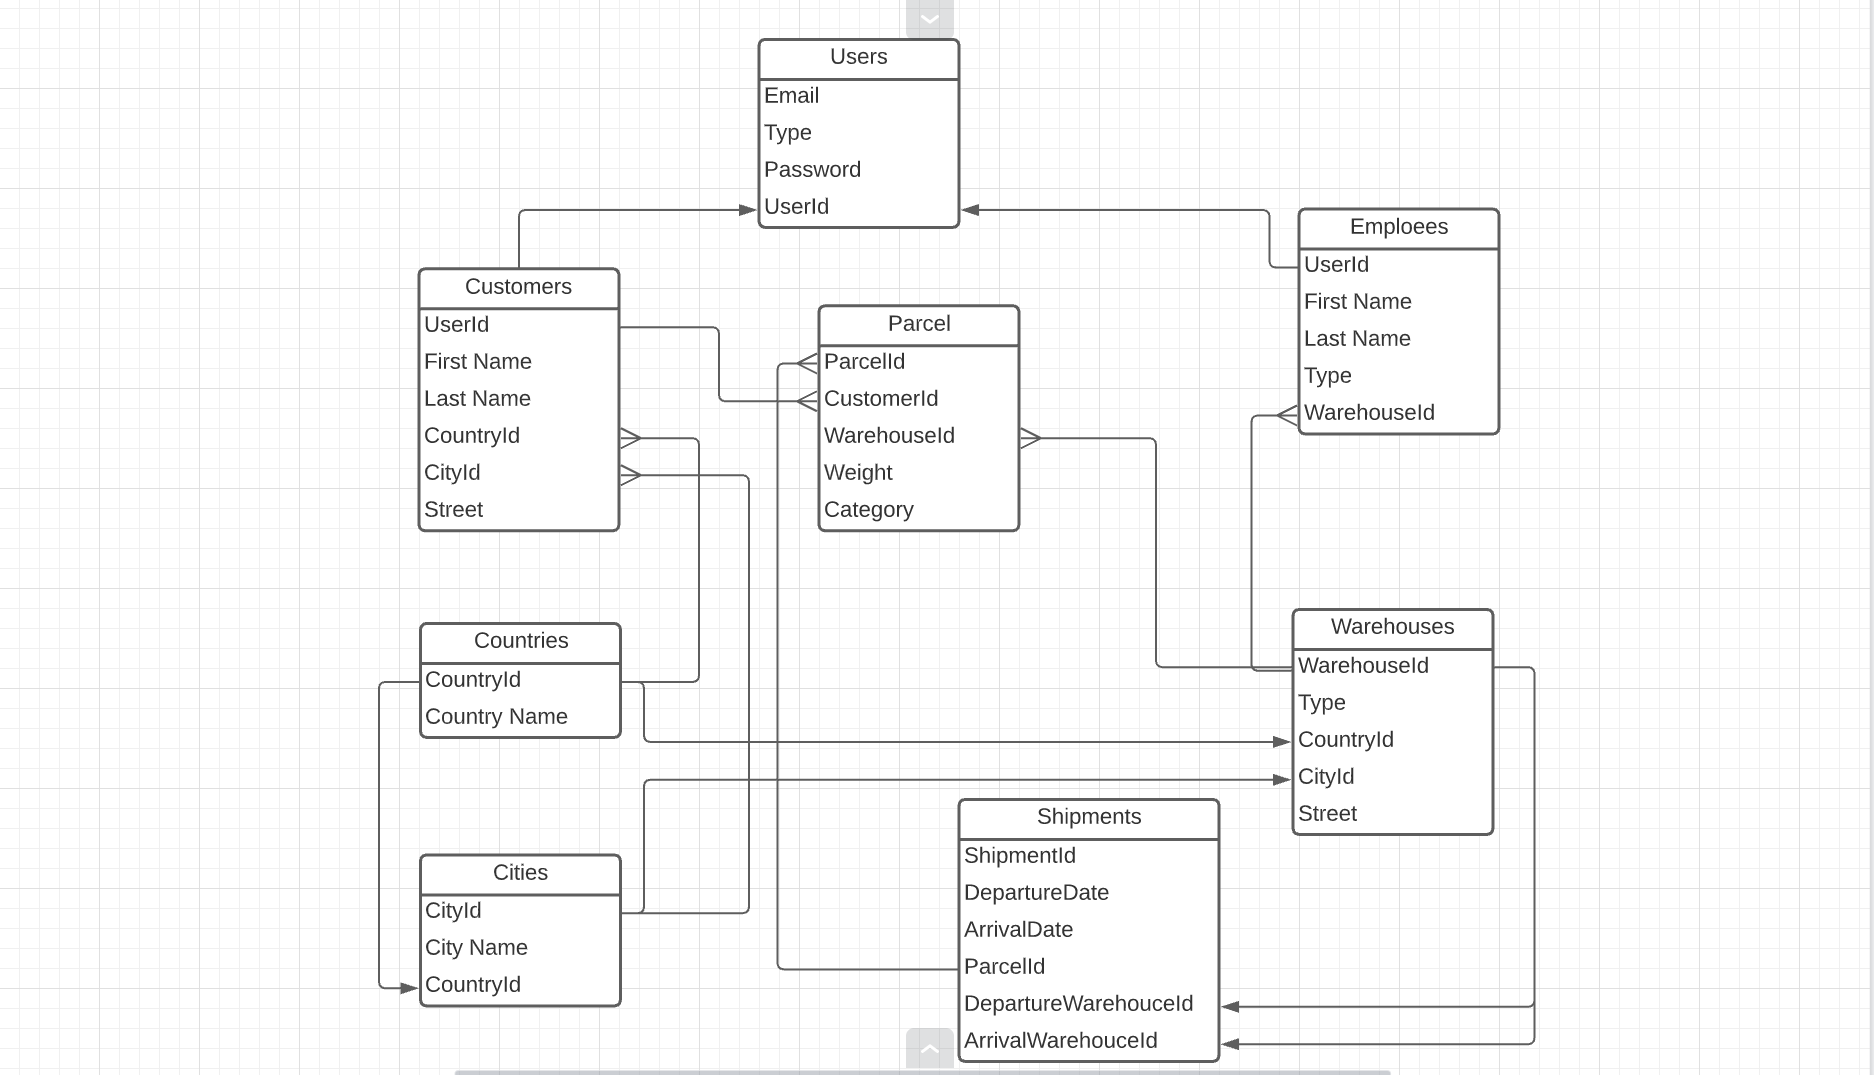
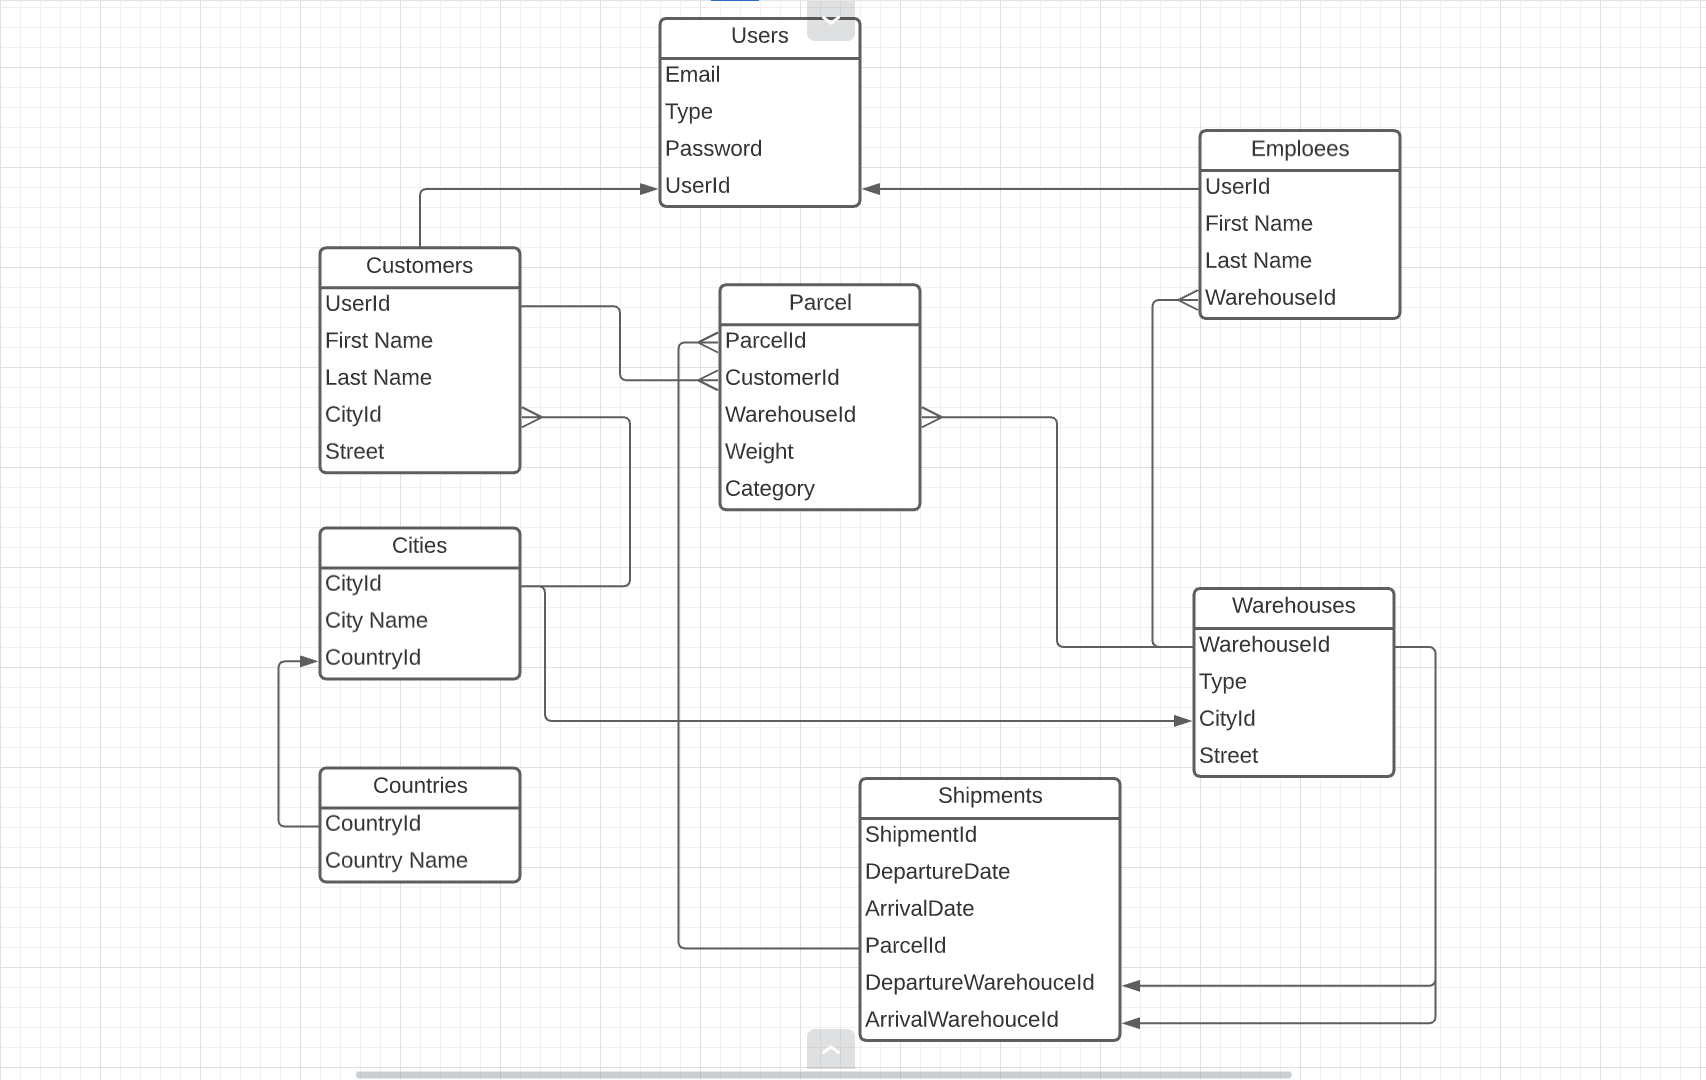
1.Change relation of Conutries and Cities 2.Fix class diagram 3.Create db diagram

diff --git a/DeliverIt13/DeliverIt13.Data/Migrations/20210411173956_Initial.cs b/DeliverIt13/DeliverIt13.Data/Migrations/20210411173956_Initial.cs
@@ -59,7 +59,6 @@ namespace DeliverIt13.Data.Migrations
                     UserId = table.Column<Guid>(type: "uniqueidentifier", nullable: false),
                     FirstName = table.Column<string>(type: "nvarchar(50)", maxLength: 50, nullable: false),
                     LastName = table.Column<string>(type: "nvarchar(50)", maxLength: 50, nullable: false),
-                    CountryId = table.Column<Guid>(type: "uniqueidentifier", nullable: false),
                     CityId = table.Column<Guid>(type: "uniqueidentifier", nullable: false),
                     Street = table.Column<string>(type: "nvarchar(100)", maxLength: 100, nullable: true)
                 },
@@ -71,12 +70,6 @@ namespace DeliverIt13.Data.Migrations
                         column: x => x.CityId,
                         principalTable: "Cities",
                         principalColumn: "CityId",
-                        onDelete: ReferentialAction.Restrict);
-                    table.ForeignKey(
-                        name: "FK_Customers_Countries_CountryId",
-                        column: x => x.CountryId,
-                        principalTable: "Countries",
-                        principalColumn: "CountryId",
                         onDelete: ReferentialAction.Restrict);
                     table.ForeignKey(
                         name: "FK_Customers_Users_UserId",
@@ -92,7 +85,6 @@ namespace DeliverIt13.Data.Migrations
                 {
                     WarehouseId = table.Column<Guid>(type: "uniqueidentifier", nullable: false),
                     Type = table.Column<int>(type: "int", nullable: false),
-                    CountryId = table.Column<Guid>(type: "uniqueidentifier", nullable: false),
                     CityId = table.Column<Guid>(type: "uniqueidentifier", nullable: false),
                     Street = table.Column<string>(type: "nvarchar(100)", maxLength: 100, nullable: true)
                 },
@@ -104,12 +96,6 @@ namespace DeliverIt13.Data.Migrations
                         column: x => x.CityId,
                         principalTable: "Cities",
                         principalColumn: "CityId",
-                        onDelete: ReferentialAction.Restrict);
-                    table.ForeignKey(
-                        name: "FK_Warehouses_Countries_CountryId",
-                        column: x => x.CountryId,
-                        principalTable: "Countries",
-                        principalColumn: "CountryId",
                         onDelete: ReferentialAction.Restrict);
                 });
 
@@ -212,11 +198,6 @@ namespace DeliverIt13.Data.Migrations
                 column: "CityId");
 
             migrationBuilder.CreateIndex(
-                name: "IX_Customers_CountryId",
-                table: "Customers",
-                column: "CountryId");
-
-            migrationBuilder.CreateIndex(
                 name: "IX_Employees_WarehouseId",
                 table: "Employees",
                 column: "WarehouseId");
@@ -250,11 +231,6 @@ namespace DeliverIt13.Data.Migrations
                 name: "IX_Warehouses_CityId",
                 table: "Warehouses",
                 column: "CityId");
-
-            migrationBuilder.CreateIndex(
-                name: "IX_Warehouses_CountryId",
-                table: "Warehouses",
-                column: "CountryId");
         }
 
         protected override void Down(MigrationBuilder migrationBuilder)

diff --git a/DeliverIt13/DeliverIt13.Data/Migrations/20210411173956_Initial.Designer.cs b/DeliverIt13/DeliverIt13.Data/Migrations/20210411173956_Initial.Designer.cs
@@ -10,7 +10,7 @@ using Microsoft.EntityFrameworkCore.Storage.ValueConversion;
 namespace DeliverIt13.Data.Migrations
 {
     [DbContext(typeof(DeliverItContext))]
-    [Migration("20210411145237_Initial")]
+    [Migration("20210411173956_Initial")]
     partial class Initial
     {
         protected override void BuildTargetModel(ModelBuilder modelBuilder)
@@ -66,9 +66,6 @@ namespace DeliverIt13.Data.Migrations
                     b.Property<Guid>("CityId")
                         .HasColumnType("uniqueidentifier");
 
-                    b.Property<Guid>("CountryId")
-                        .HasColumnType("uniqueidentifier");
-
                     b.Property<string>("FirstName")
                         .IsRequired()
                         .HasMaxLength(50)
@@ -86,8 +83,6 @@ namespace DeliverIt13.Data.Migrations
                     b.HasKey("UserId");
 
                     b.HasIndex("CityId");
-
-                    b.HasIndex("CountryId");
 
                     b.ToTable("Customers");
                 });
@@ -210,9 +205,6 @@ namespace DeliverIt13.Data.Migrations
                     b.Property<Guid>("CityId")
                         .HasColumnType("uniqueidentifier");
 
-                    b.Property<Guid>("CountryId")
-                        .HasColumnType("uniqueidentifier");
-
                     b.Property<string>("Street")
                         .HasMaxLength(100)
                         .HasColumnType("nvarchar(100)");
@@ -223,8 +215,6 @@ namespace DeliverIt13.Data.Migrations
                     b.HasKey("WarehouseId");
 
                     b.HasIndex("CityId");
-
-                    b.HasIndex("CountryId");
 
                     b.ToTable("Warehouses");
                 });
@@ -248,12 +238,6 @@ namespace DeliverIt13.Data.Migrations
                         .OnDelete(DeleteBehavior.Restrict)
                         .IsRequired();
 
-                    b.HasOne("DeliverIt13.Data.Models.Country", "Country")
-                        .WithMany()
-                        .HasForeignKey("CountryId")
-                        .OnDelete(DeleteBehavior.Restrict)
-                        .IsRequired();
-
                     b.HasOne("DeliverIt13.Data.Models.User", "User")
                         .WithMany()
                         .HasForeignKey("UserId")
@@ -261,8 +245,6 @@ namespace DeliverIt13.Data.Migrations
                         .IsRequired();
 
                     b.Navigation("City");
-
-                    b.Navigation("Country");
 
                     b.Navigation("User");
                 });
@@ -340,15 +322,7 @@ namespace DeliverIt13.Data.Migrations
                         .OnDelete(DeleteBehavior.Restrict)
                         .IsRequired();
 
-                    b.HasOne("DeliverIt13.Data.Models.Country", "Country")
-                        .WithMany()
-                        .HasForeignKey("CountryId")
-                        .OnDelete(DeleteBehavior.Restrict)
-                        .IsRequired();
-
                     b.Navigation("City");
-
-                    b.Navigation("Country");
                 });
 
             modelBuilder.Entity("DeliverIt13.Data.Models.Shipment", b =>

diff --git a/DeliverIt13/DeliverIt13.Data/Migrations/DeliverItContextModelSnapshot.cs b/DeliverIt13/DeliverIt13.Data/Migrations/DeliverItContextModelSnapshot.cs
@@ -64,9 +64,6 @@ namespace DeliverIt13.Data.Migrations
                     b.Property<Guid>("CityId")
                         .HasColumnType("uniqueidentifier");
 
-                    b.Property<Guid>("CountryId")
-                        .HasColumnType("uniqueidentifier");
-
                     b.Property<string>("FirstName")
                         .IsRequired()
                         .HasMaxLength(50)
@@ -84,8 +81,6 @@ namespace DeliverIt13.Data.Migrations
                     b.HasKey("UserId");
 
                     b.HasIndex("CityId");
-
-                    b.HasIndex("CountryId");
 
                     b.ToTable("Customers");
                 });
@@ -208,9 +203,6 @@ namespace DeliverIt13.Data.Migrations
                     b.Property<Guid>("CityId")
                         .HasColumnType("uniqueidentifier");
 
-                    b.Property<Guid>("CountryId")
-                        .HasColumnType("uniqueidentifier");
-
                     b.Property<string>("Street")
                         .HasMaxLength(100)
                         .HasColumnType("nvarchar(100)");
@@ -221,8 +213,6 @@ namespace DeliverIt13.Data.Migrations
                     b.HasKey("WarehouseId");
 
                     b.HasIndex("CityId");
-
-                    b.HasIndex("CountryId");
 
                     b.ToTable("Warehouses");
                 });
@@ -246,12 +236,6 @@ namespace DeliverIt13.Data.Migrations
                         .OnDelete(DeleteBehavior.Restrict)
                         .IsRequired();
 
-                    b.HasOne("DeliverIt13.Data.Models.Country", "Country")
-                        .WithMany()
-                        .HasForeignKey("CountryId")
-                        .OnDelete(DeleteBehavior.Restrict)
-                        .IsRequired();
-
                     b.HasOne("DeliverIt13.Data.Models.User", "User")
                         .WithMany()
                         .HasForeignKey("UserId")
@@ -259,8 +243,6 @@ namespace DeliverIt13.Data.Migrations
                         .IsRequired();
 
                     b.Navigation("City");
-
-                    b.Navigation("Country");
 
                     b.Navigation("User");
                 });
@@ -338,15 +320,7 @@ namespace DeliverIt13.Data.Migrations
                         .OnDelete(DeleteBehavior.Restrict)
                         .IsRequired();
 
-                    b.HasOne("DeliverIt13.Data.Models.Country", "Country")
-                        .WithMany()
-                        .HasForeignKey("CountryId")
-                        .OnDelete(DeleteBehavior.Restrict)
-                        .IsRequired();
-
                     b.Navigation("City");
-
-                    b.Navigation("Country");
                 });
 
             modelBuilder.Entity("DeliverIt13.Data.Models.Shipment", b =>

diff --git a/DeliverIt13/DeliverIt13.Data/DeliverItContext.cs b/DeliverIt13/DeliverIt13.Data/DeliverItContext.cs
@@ -15,36 +15,31 @@ namespace DeliverIt13.Data
 
         protected override void OnModelCreating(ModelBuilder modelBuilder)
         {
+            //City Cascade Fix
             modelBuilder.Entity<City>()
                 .HasOne<Country>(s => s.Country)
                 .WithMany()
                 .Metadata.DeleteBehavior = DeleteBehavior.Restrict;
-
+            
+            //Customer Cascade Fix
             modelBuilder.Entity<Customer>()
                 .HasOne<City>(s => s.City)
                 .WithMany()
                 .Metadata.DeleteBehavior = DeleteBehavior.Restrict;
 
-            modelBuilder.Entity<Customer>()
-                .HasOne(s => s.Country)
-                .WithMany()
-                .Metadata.DeleteBehavior = DeleteBehavior.Restrict;
-
+            //Warehouse Cascade Fix
             modelBuilder.Entity<Warehouse>()
                 .HasOne(s => s.City)
                 .WithMany()
                 .Metadata.DeleteBehavior = DeleteBehavior.Restrict;
 
-            modelBuilder.Entity<Warehouse>()
-                .HasOne(s => s.Country)
-                .WithMany()
-                .Metadata.DeleteBehavior = DeleteBehavior.Restrict;
-
+            //Employee Cascade Fix
             modelBuilder.Entity<Employee>()
                 .HasOne(s => s.Warehouse)
                 .WithMany()
                 .Metadata.DeleteBehavior = DeleteBehavior.Restrict;
 
+            //Shipment Cascade Fix
             modelBuilder.Entity<Shipment>()
                 .HasOne(s => s.ArrivalWarehouse)
                 .WithMany()
@@ -58,6 +53,7 @@ namespace DeliverIt13.Data
                 .WithOne(p => p.Shipment)
                 .Metadata.DeleteBehavior = DeleteBehavior.Cascade;
 
+            //Parcel Cascade Fix
             modelBuilder.Entity<Parcel>()
                 .HasOne(s => s.Warehouse)
                 .WithMany()

diff --git a/DeliverIt13/DeliverIt13.Data/Models/Customer.cs b/DeliverIt13/DeliverIt13.Data/Models/Customer.cs
@@ -19,10 +19,6 @@ namespace DeliverIt13.Data.Models
 
         [Required, StringLength(50, MinimumLength = 3, ErrorMessage = "Last name must be between 3 and 50 characters long!")]
         public string LastName { get; set; }
-
-        public Guid CountryId { get; set; }
-        [ForeignKey(nameof(CountryId))]
-        public Country Country { get; set; }
         public Guid CityId { get; set; }
         [ForeignKey(nameof(CityId))]
         public City City { get; set; }

diff --git a/DeliverIt13/DeliverIt13.Data/Models/Warehouse.cs b/DeliverIt13/DeliverIt13.Data/Models/Warehouse.cs
@@ -14,9 +14,6 @@ namespace DeliverIt13.Data.Models
         public Guid WarehouseId { get; set; }
         [Required]
         public WarehouseType Type { get; set; }
-        public Guid CountryId { get; set; }
-        [ForeignKey(nameof(CountryId))]
-        public Country Country { get; set; }
         public Guid CityId { get; set; }
         [ForeignKey(nameof(CityId))]
         public City City { get; set; }
